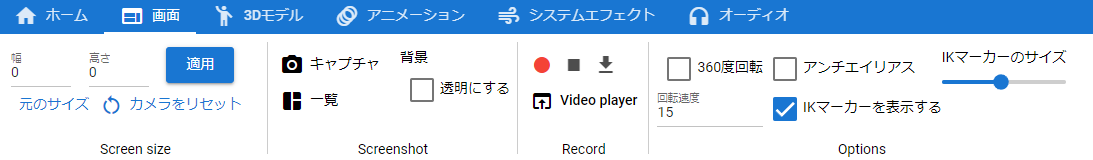
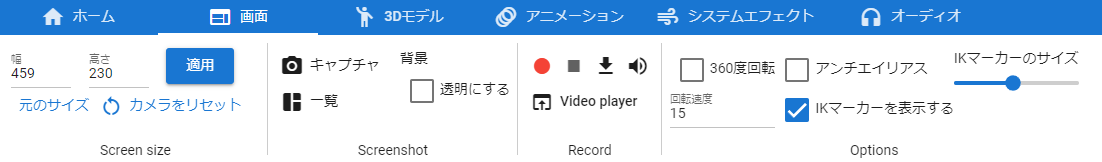
5/30夜時点

diff --git a/docs/source/man5/photograph.rst b/docs/source/man5/photograph.rst
@@ -108,6 +108,16 @@
 .. image:: img/photograph_7.png
     :align: center
 
+.. hint::
+    ビデオの音声をミュートする
+
+    .. image:: img/photograph_c.png
+        :align: center
+
+    　本アプリでは録画する際、音声も記録することができます。将来的には音声合成によるナレーション等にも対応させる予定です。一般的には効果音などを収録させる目的でも使用することができます。ただしマイクが備わっていない、不調などの理由で音声を不必要に入れたくないこともあるでしょう。
+
+    　そんな時、このボタンを押すことで音声を有効・ミュートを切り替えることができます。
+
 |
 
 

diff --git a/docs/source/man1/menu_screen.rst b/docs/source/man1/menu_screen.rst
@@ -42,6 +42,8 @@
     録画を停止します。
 :ビデオをダウンロード:
     録画した内容をダウンロードします。形式はwebm形式です。
+:音声を有効・ミュート:
+    録画する映像の音声をミュートまたは再び有効化します。
 :Video player:
     内蔵のビデオプレイヤーを別ウィンドウで開きます。
 
